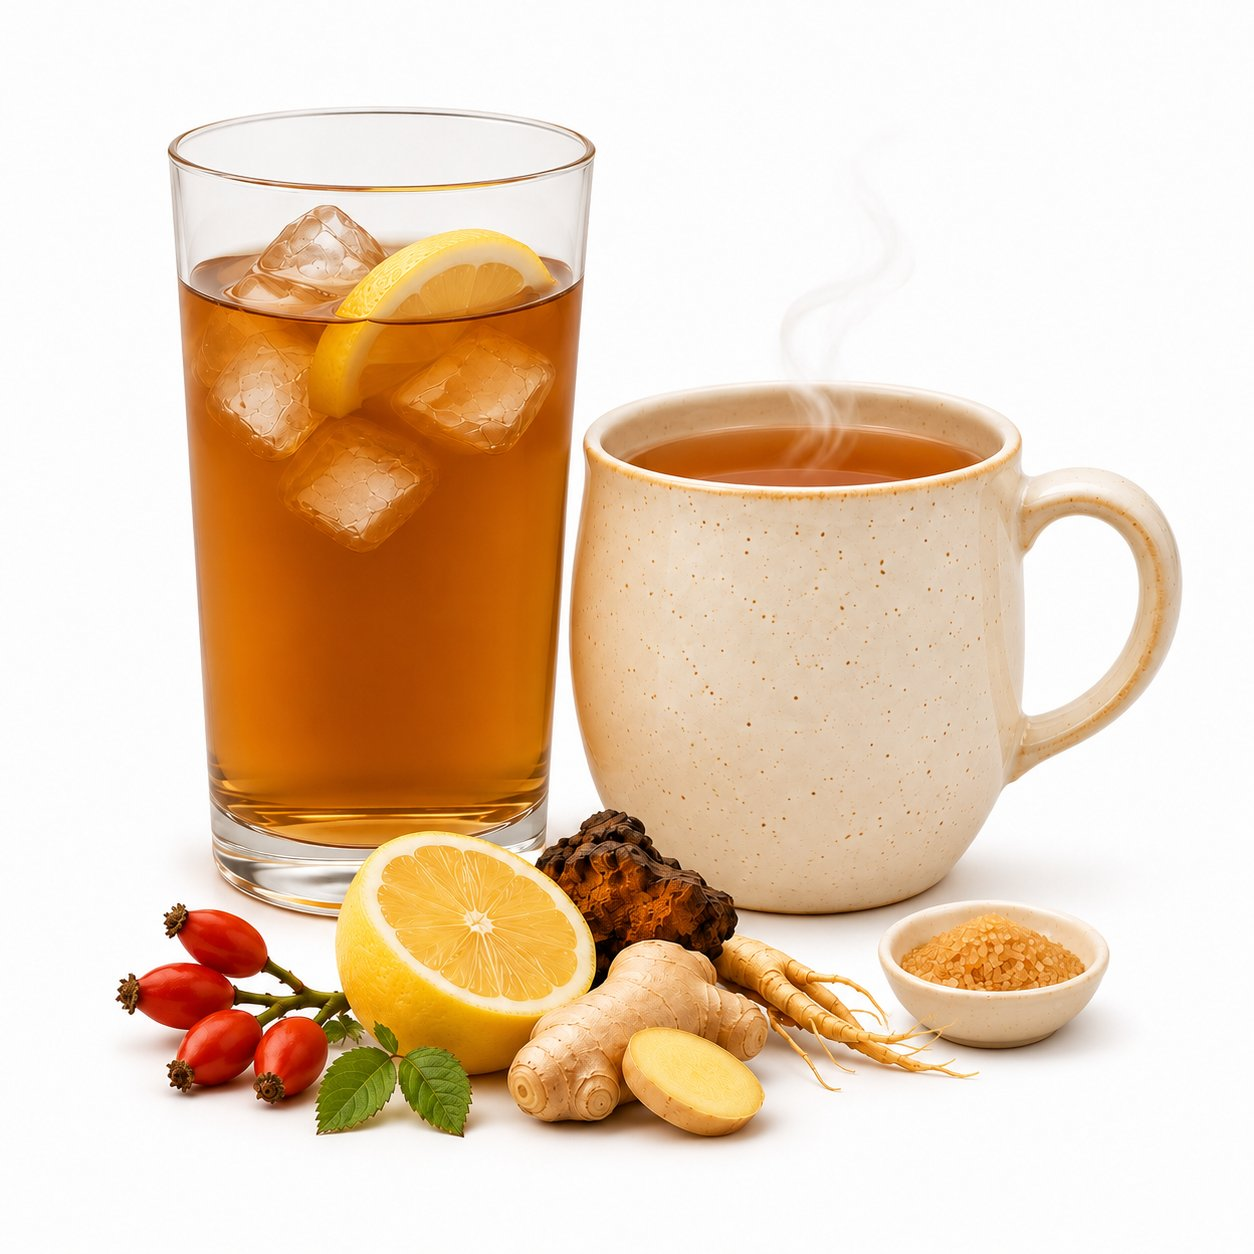
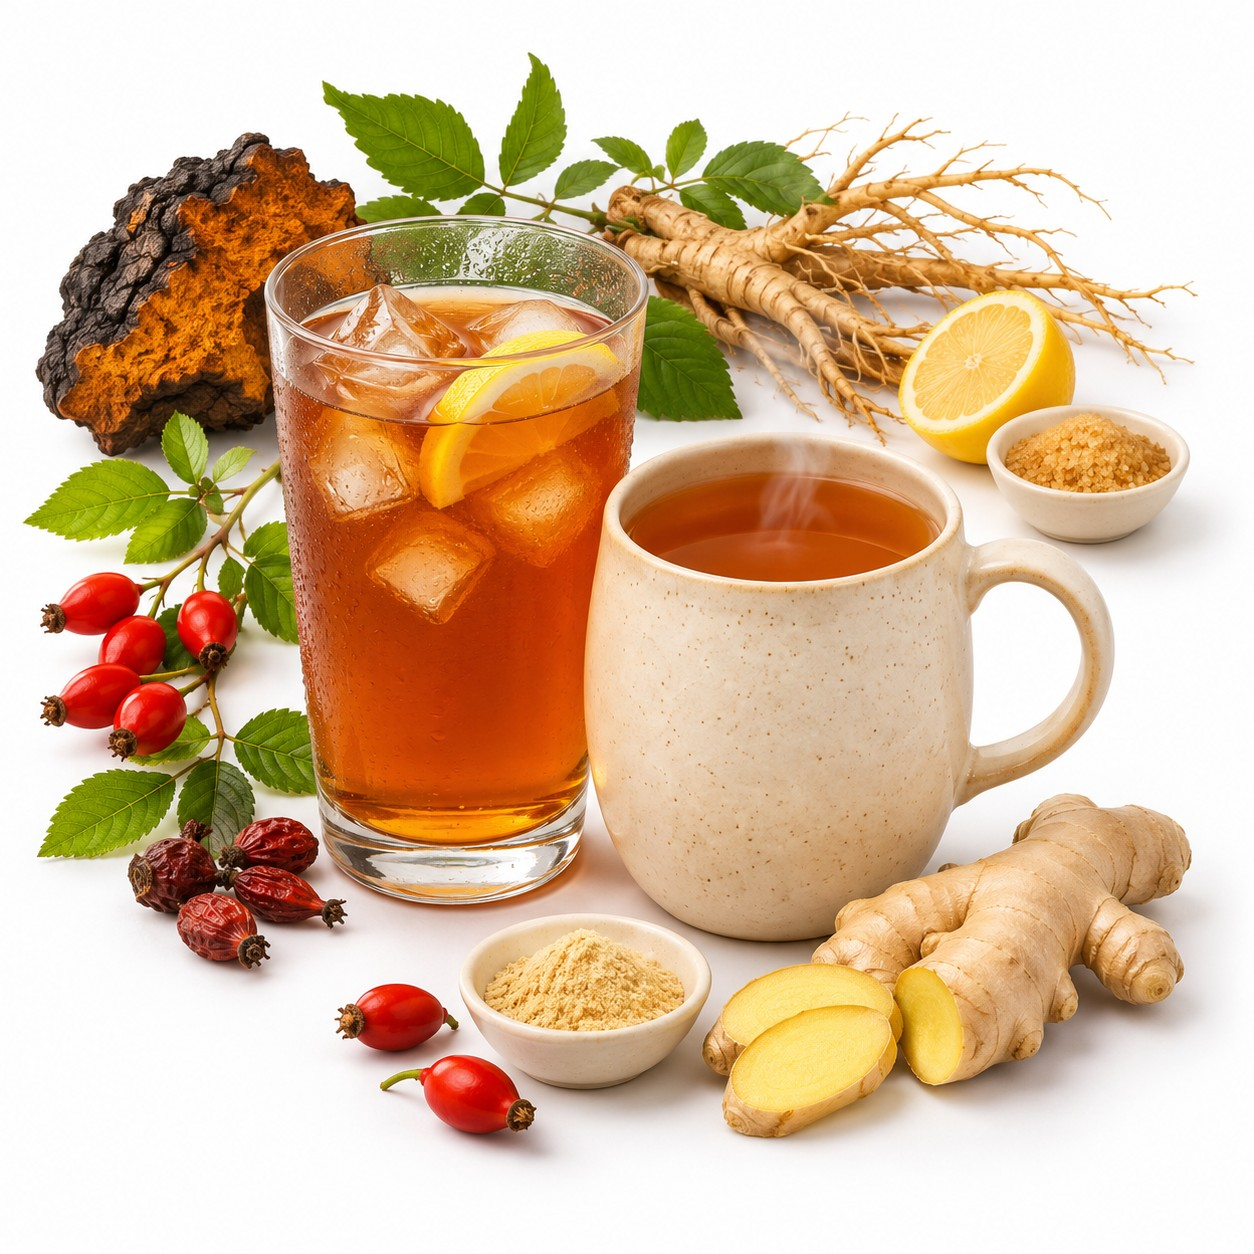
E-shop: nové hlavní fotky všech 7 sirupů (bohaté, suroviny kolem) (#135)
Fotky z ChatGPT schválené majitelem 11. 11. 2026; podklad sladěný
v productImages.ts (Šaman #fefefe, Zázvorový #fbfafc).

Claude-Session: https://claude.ai/code/session_016QL8fyP6fDGx2RMwKgd8AU

diff --git a/dashboard/lib/eshop/productImages.ts b/dashboard/lib/eshop/productImages.ts
@@ -20,10 +20,10 @@ const BACKDROP: Record<string, string> = {
   "/eshop/polevky/gulasova-polevka-z-hlivy-ustricne-sacek.jpg": "#fdfcfd",
   "/eshop/polevky/spenatova-polevka-miska.jpg": "#f9f7f9",
   "/eshop/polevky/spenatova-polevka-sacek.jpg": "#f8f6f7",
-  "/eshop/sirupy/bylinny-sirup-saman-hlavni.jpg": "#fdfdfd",
+  "/eshop/sirupy/bylinny-sirup-saman-hlavni.jpg": "#fefefe",
   "/eshop/sirupy/bylinny-sirup-saman-sacek.jpg": "#fefefe",
   "/eshop/sirupy/bylinny-sirup-saman-doypack.jpg": "#fefefe",
-  "/eshop/sirupy/zazvorovy-sirup-hlavni.jpg": "#fefefe",
+  "/eshop/sirupy/zazvorovy-sirup-hlavni.jpg": "#fbfafc",
   "/eshop/sirupy/zazvorovy-sirup-sacek.jpg": "#fefefe",
   "/eshop/sirupy/zazvorovy-sirup-doypack.jpg": "#fefefe",
   "/eshop/sirupy/lipovy-sirup-hlavni.jpg": "#fefefe",
